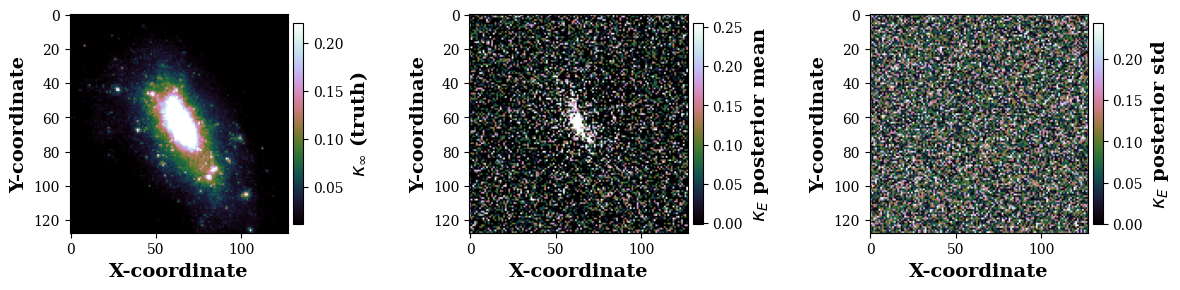
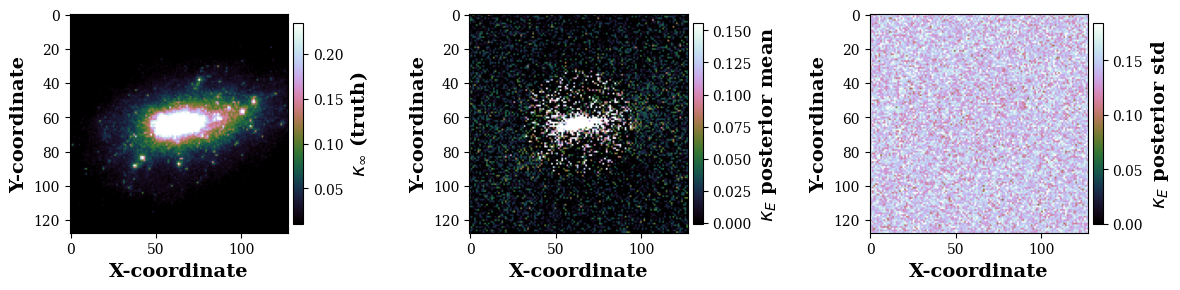
FoV shear maps

diff --git a/jaxlense_dataset/build_kappa_truth_and_catalogs.py b/jaxlense_dataset/build_kappa_truth_and_catalogs.py
@@ -120,43 +120,62 @@ def _empty_catalog():
 
 def draw_shape_catalog(kappa_inf, gamma1_inf, gamma2_inf, fov_mpc, z_l, rng):
     """
-    Bahe+ 2012 sec 3.2 with Smail n(z):
-      - n_source = 30/arcmin^2 over an annulus [r_inner_arcsec, r_outer_arcmin]
+    Synthetic source catalog:
+      - n_source = CFG_LENS.n_source_per_arcmin2 over the full rectangular FoV
+      - remove sources inside r_inner_arcsec to avoid strongly lensed/core region
       - per-galaxy z_s ~ Smail
-      - magnification thinning with rate ~ mu^(2.5*alpha_mag - 1)
+      - optional magnification thinning with rate ~ mu^(2.5*alpha_mag - 1)
       - reduced shear g = beta*gamma_inf / (1 - beta*kappa_inf)
-      - epsilon_obs = (epsilon_int + g) / (1 + g* epsilon_int)
+      - epsilon_obs = (epsilon_int + g) / (1 + conj(g)*epsilon_int)
     """
-    D_l = lu.angular_diameter_distance_mpc(z_l, H0=CFG_COSMO.H0, Om0=CFG_COSMO.Om0)
+    D_l = lu.angular_diameter_distance_mpc(
+        z_l, H0=CFG_COSMO.H0, Om0=CFG_COSMO.Om0
+    )
     arcmin_per_mpc = (180.0 * 60.0 / np.pi) / D_l
-    r_in_mpc = (CFG_LENS.r_inner_arcsec / 60.0) / arcmin_per_mpc
-    r_out_mpc = CFG_LENS.r_outer_arcmin / arcmin_per_mpc
-    r_out_mpc = min(r_out_mpc, fov_mpc * 0.99)              # keep inside the box
 
-    area_arcmin2 = np.pi * (CFG_LENS.r_outer_arcmin ** 2
-                            - (CFG_LENS.r_inner_arcsec / 60.0) ** 2)
-    n_mean = CFG_LENS.n_source_per_arcmin2 * area_arcmin2
+    # Inner circular exclusion region in physical Mpc.
+    r_in_mpc = (CFG_LENS.r_inner_arcsec / 60.0) / arcmin_per_mpc
+
+    # Expected number of sources over the rectangular FoV,
+    # excluding the inner strong-lensing/core region.
+    field_side_arcmin = 2.0 * fov_mpc * arcmin_per_mpc
+    field_area_arcmin2 = field_side_arcmin ** 2
+    inner_area_arcmin2 = np.pi * (CFG_LENS.r_inner_arcsec / 60.0) ** 2
+    usable_area_arcmin2 = max(field_area_arcmin2 - inner_area_arcmin2, 0.0)
+
+    n_mean = CFG_LENS.n_source_per_arcmin2 * usable_area_arcmin2
 
     exponent = 2.5 * CFG_LENS.alpha_mag - 1.0
-    weight_max_bound = max(CFG_LENS.mu_max ** exponent,
-                           (1.0 / CFG_LENS.mu_max) ** exponent)
+    weight_max_bound = max(
+        CFG_LENS.mu_max ** exponent,
+        (1.0 / CFG_LENS.mu_max) ** exponent,
+    )
     if not CFG_LENS.use_magnification_bias:
         weight_max_bound = 1.0
 
-    n_proposed = int(rng.poisson(n_mean * weight_max_bound * CFG_LENS.oversample_safety))
+    n_proposed = int(
+        rng.poisson(n_mean * weight_max_bound * CFG_LENS.oversample_safety)
+    )
     if n_proposed == 0:
         return _empty_catalog()
 
-    # rejection-sample positions in the annulus from a uniform square proposal
-    cand_x = np.empty(0); cand_y = np.empty(0)
+    # Draw sources uniformly over the rectangular FoV,
+    # rejecting only the inner core.
+    cand_x = np.empty(0, dtype=np.float64)
+    cand_y = np.empty(0, dtype=np.float64)
+
     while cand_x.size < n_proposed:
         chunk = max(n_proposed - cand_x.size, 256)
-        rx = rng.uniform(-r_out_mpc, r_out_mpc, size=chunk * 2)
-        ry = rng.uniform(-r_out_mpc, r_out_mpc, size=chunk * 2)
+
+        rx = rng.uniform(-fov_mpc, fov_mpc, size=chunk * 2)
+        ry = rng.uniform(-fov_mpc, fov_mpc, size=chunk * 2)
+
         rr = np.sqrt(rx ** 2 + ry ** 2)
-        keep = (rr >= r_in_mpc) & (rr <= r_out_mpc)
+        keep = rr >= r_in_mpc
+
         cand_x = np.concatenate([cand_x, rx[keep]])
         cand_y = np.concatenate([cand_y, ry[keep]])
+
     x_g = cand_x[:n_proposed].astype(np.float64)
     y_g = cand_y[:n_proposed].astype(np.float64)
 

diff --git a/jaxlense_dataset/config.py b/jaxlense_dataset/config.py
@@ -93,13 +93,13 @@ class ScoreNetConfig:
 
 @dataclass
 class DLPosteriorConfig:
-    batch_size: int = 8                   # parallel chains per call
+    batch_size: int = 100                   # parallel chains per call
     n_independent_seeds: int = 4          # × batch_size = total samples per cluster
     initial_temperature: float = 0.15
     initial_step_size: float = 0.01
-    min_steps_per_temp: int = 10
-    num_steps_between_results: int = 6000
-    cooling_gamma: float = 0.98
+    min_steps_per_temp: int = 50
+    num_steps_between_results: int = 20000
+    cooling_gamma: float = 0.99
     min_temperature: float = 8e-3
 
 
